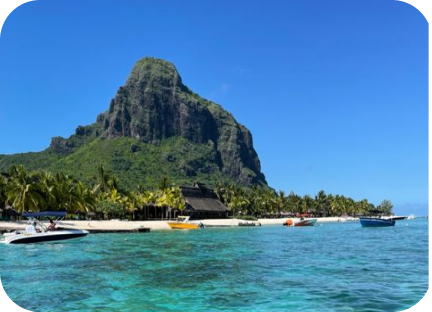
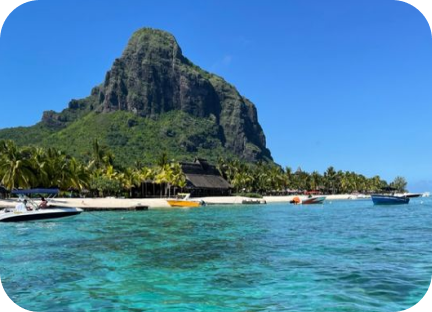
change design part 7 , added images

diff --git a/about_us.html b/about_us.html
@@ -6,7 +6,7 @@
     <link rel="stylesheet" href="css/navbar-foot.css" />
     <link rel="stylesheet" href="css/font_style.css" />
     <link rel="stylesheet" href="css/about_us.css" />
-    <title>Sunshine i-land Resort</title>
+    <title>Sunshine i-land Resort | About Us </title>
     <link rel="icon" href="assets/sunshine_blue_icon.png" />
   </head>
   <body>
@@ -186,13 +186,13 @@
               </div>
               <div class="follow-me">
                 <div class="follow-in">
-                  <a href="https://www.linkedin.com/in/nabellaayugiwanti/">
+                  <a href="https://www.linkedin.com/in/nabellaayugiwanti/"  target="_blank">
                     <img src="assets/icons/linkedin.png" alt="" />
                   </a>
                 </div>
                 <div class="follow-ig">
                   <a
-                    href="https://instagram.com/na_ayug?igshid=OGQ5ZDc2ODk2ZA=="
+                    href="https://instagram.com/na_ayug?igshid=OGQ5ZDc2ODk2ZA=="  target="_blank"
                   >
                     <img src="assets/icons/instagram.png" alt="" />
                   </a>
@@ -209,12 +209,12 @@
               </div>
               <div class="follow-me">
                 <div class="follow-in">
-                  <a href="#">
+                  <a href="https://id.linkedin.com/in/nathaliaclara12"  target="_blank">
                     <img src="assets/icons/linkedin.png" alt="" />
                   </a>
                 </div>
                 <div class="follow-ig">
-                  <a href="#">
+                  <a href="https://www.instagram.com/nathaliaclra_/"  target="_blank">
                     <img src="assets/icons/instagram.png" alt="" />
                   </a>
                 </div>
@@ -230,13 +230,13 @@
               </div>
               <div class="follow-me">
                 <div class="follow-in">
-                  <a href="https://www.linkedin.com/in/abimanyu-anggit">
+                  <a href="https://www.linkedin.com/in/abimanyu-anggit"  target="_blank">
                     <img src="assets/icons/linkedin.png" alt="" />
                   </a>
                 </div>
                 <div class="follow-ig">
                   <a
-                    href="https://instagram.com/abimanyu.anggit?utm_source=qr&igshid=MzNlNGNkZWQ4Mg%3D%3D"
+                    href="https://instagram.com/abimanyu.anggit?utm_source=qr&igshid=MzNlNGNkZWQ4Mg%3D%3D"  target="_blank"
                   >
                     <img src="assets/icons/instagram.png" alt="" />
                   </a>
@@ -254,14 +254,14 @@
               <div class="follow-me">
                 <div class="follow-in">
                   <a
-                    href="https://www.linkedin.com/in/igustingurahbagusarisanjaya"
+                    href="https://www.linkedin.com/in/igustingurahbagusarisanjaya"  target="_blank"
                   >
                     <img src="assets/icons/linkedin.png" alt="" />
                   </a>
                 </div>
                 <div class="follow-ig">
                   <a
-                    href="https://instagram.com/arisanjayabagus?igshid=OGQ5ZDc2ODk2ZA=="
+                    href="https://instagram.com/arisanjayabagus?igshid=OGQ5ZDc2ODk2ZA=="  target="_blank"
                   >
                     <img src="assets/icons/instagram.png" alt="" />
                   </a>
@@ -278,12 +278,12 @@
               </div>
               <div class="follow-me">
                 <div class="follow-in">
-                  <a href="#">
+                  <a href="http://linkedin.com/in/sephya-zahra-maharani-41283b265" target="_blank">
                     <img src="assets/icons/linkedin.png" alt="" />
                   </a>
                 </div>
                 <div class="follow-ig">
-                  <a href="#">
+                  <a href="https://instagram.com/sephyazhr?igshid=YTQwZjQ0NmI0OA%3D%3D&utm_source=qr" target="_blank">
                     <img src="assets/icons/instagram.png" alt="" />
                   </a>
                 </div>

diff --git a/facilities.html b/facilities.html
@@ -8,7 +8,7 @@
     <link rel="stylesheet" href="css/navbar-foot.css" />
     <link rel="stylesheet" href="css/font_style.css" />
     <link rel="stylesheet" href="css/facilities.css" />
-    <title>Sunshine i-land Resort</title>
+    <title>Sunshine i-land Resort | Fasilities </title>
     <link rel="icon" href="assets/sunshine_blue_icon.png">
   </head>
   <body>
@@ -58,23 +58,39 @@
       </section>
       <section id="facilities2">
         <div class="our-facilities">
+          <h2>Our Services</h2>
           <div class="container">
-          <h2>Our Facilities and Service</h2>
-          <img
-            class="fac-img"
-            src="assets/images/24hr_telephone.jpg"
-            alt=""/>
-          <h3>Access to 24hr Digital Telephone Services</h3>
-          <p>
-            With our future rich Digital telephone services, you will have the
-            flexibility you have always wanted with voice communication from
-            your home of business.
-          </p> 
-        </div>
+            <div class="facility">
+              <img class="fac-img" src="assets/images/24hr_telephone.jpg" alt=""/>
+              <h3>Digital Telephone Services</h3>
+              <p>
+                With our future rich Digital telephone services,<br>
+                you will have the flexibility you have always wanted with voice communication from
+                your home or business.
+              </p>
+            </div>
+            <div class="facility">
+              <img class="fac-img" src="assets/images/security-cctv.png" alt=""/>
+              <h3>Security Guaranteed</h3>
+              <p>
+                Our resort's CCTV security service provides top-notch surveillance <br>
+                and protection for the safety and security of our guests. 
+                
+              </p>
+            </div>
+            <div class="facility">
+              <img class="fac-img" src="assets/images/Staffs.jpg" alt=""/>
+              <h3>Quick Services</h3>
+              <p>
+                In our resort, fast service is one of our top priorities <br>
+                to provide maximum comfort and satisfaction to our guests.
+              </p>
+            </div>
+          </div>          
         <div class="our-facilities-icons">
           <div class="icon">
             <img src="assets/icons/long_distance.png" alt="" />
-            <p>Unlimited Long Distance</p>
+            <p>24 Hours Services</p>
           </div>
           <div class="icon">
             <img src="assets/icons/face_id.png" alt="" />
@@ -84,8 +100,16 @@
             <img src="assets/icons/phone-call.svg" alt="" />
             <p>Caller Waiting</p>
           </div>
+          <div class="icon">
+            <img src="assets/icons/security-guard.svg" alt="" />
+            <p>Security guard</p>
+          </div>
+          <div class="icon">
+            <img src="assets/icons/staff.svg" alt="">
+            <p>Good and friendly staffs </p>
+          </div>
         </div>
-        </div>
+
       </section>
       <section id="facilities3">
         <div class="container">

diff --git a/css/home.css b/css/home.css
@@ -195,8 +195,12 @@ body {
 /* Styling for headings within .headings */
 .headings h1 {
   text-align: center;
-  color: #555555;
+  color: #213e9e;
   font-size: 32px;
+}
+
+.subheadings p {
+  color: #555555;
 }
 /* Styling for cards container (.card) */
 .card {
@@ -232,6 +236,8 @@ body {
   box-shadow: 0px 0px 10px rgba(0, 0, 0, 0.5);
   transform: scale(1.05);
   cursor: pointer;
+  transition: transform 0.5s ease; 
+  
 }
 
 .discount p {
@@ -336,7 +342,6 @@ body {
   border-radius: 5px;
   background: #ffca0e;
   color: #ffffff;
-  font-family: inter;
   font-size: 14px;
   font-weight: bold;
   padding: 10px 20px;
@@ -392,7 +397,7 @@ body {
 /* Styling for headings in customer testimonials (#customers_say .headings p) */
 #customers-say .subheadings p {
   text-align: center;
-  color: #213e9e;
+  color: #5b5b5b;
 }
 
 /* Styling for card facilities section (.card-facilities) */
@@ -489,7 +494,7 @@ body {
   flex-direction: row;
 }
 
-/* CSS mengatur bagian destination */
+/* CSS for styling Destination part */
 .card_destinations {
   position: relative;
   display: flex;
@@ -500,14 +505,22 @@ body {
   overflow: hidden;
   margin-bottom: 30px;
 }
+.card_destinations:hover {
+  overflow: visible; 
+}
 
 .card_destinations img {
   width: 100%;
-  transition: transform 0.5s ease;
+  transition: transform 0.8s ease;
+  border-radius: 40px;
+  box-shadow: 5px 4px 8px rgba(0, 0, 0, 0.2);
 }
 
 .card_destinations:hover img {
   transform: scale(1.1);
+  border-radius: 40px;
+  box-shadow: 10px 4px 8px rgba(0, 0, 0, 0.2);
+  margin: 0;
 }
 
 .card_destinations p {
@@ -517,13 +530,13 @@ body {
   width: 100%;
   opacity: 0;
   transform: translateY(100%);
-  background: rgba(34, 34, 33, 0.8);
+  background: rgba(76, 50, 184, 0.8);
   color: white;
   text-align: center;
   padding: 20px;
   box-sizing: border-box;
   transition: all 0.5s ease;
-  border-radius: 10px;
+  border-radius: 40px;
 }
 
 .card_destinations:hover p {
@@ -539,7 +552,6 @@ body {
 }
 /* Media query for mobile view (maximum width 770px) */
 @media screen and (max-width: 770px) {
-  /* Styling for images in main-pic for mobile view (.main-pic img) */
   .about-content img {
     width: 80%;
   }
@@ -562,8 +574,6 @@ body {
     padding: 10px;
   }
 
-  /* Styling for card facilities section (.card-facilities) */
-
   /* Display customer testimonials in a block in mobile view (.card_grid) */
   .card-grid {
     display: block;
@@ -575,7 +585,6 @@ body {
     flex: 1 0 auto;
   }
   /* Adjust about content styles for mobile view (.about-content) */
-
   .view-about {
     float: right;
     margin: 20px;

diff --git a/css/facilities.css b/css/facilities.css
@@ -8,7 +8,7 @@
 #facilities3 {
   margin-bottom: 40px;
 }
-/* CSS untuk .text-container */
+/* CSS for .text-container */
 .text-container {
   position: absolute;
   top: 40%;
@@ -75,9 +75,25 @@
   text-align: center;
 }
 
+.our-facilities h2 ,
+.other-facilities h2{
+  color: #2474BD;
+  margin-bottom: 40px;
+}
+
+.our-facilities .container {
+  display: flex;
+  justify-content: space-between;
+}
+
+.our-facilities .facility {
+  width: 100%;
+}
+
+
 /* Image in Our Facilities - 100% width, border-radius 10px */
 .fac-img {
-  width: 40%;
+  width: 90%;
   border-radius: 10px;
 }
 
@@ -97,7 +113,7 @@
 
 /* Our Facilities Icons Container - Blue background */
 .our-facilities-icons {
-  background-color: #009c95;
+  background-color: #2474BD;
   width: 100%;
   position: relative;
   bottom: 0;
@@ -238,6 +254,14 @@
     border-radius: 10px;
   }
 
+  .our-facilities .container {
+    flex-direction: column;
+  }
+  
+  .our-facilities .facility {
+    width: 100%;
+  }
+
   /* Title and Text Style for Facilities Card on Small Screens */
   .card-facility h3,
   .other-facility h3 {
@@ -254,7 +278,7 @@
     text-align: left;
   }
   .our-facilities-icons {
-    background-color: #009c95;
+    background-color: #2474BD;
     width: 100%;
     position: relative;
     bottom: 0;

diff --git a/index.html b/index.html
@@ -153,7 +153,9 @@
         <div class="container">
           <div class="headings">
             <h1>Luxurious Facilities at Our Hotel</h1>
-            <p>Discover a World of Elegance and Modern Amenities for a Truly Memorable Stay.</p>
+            <div class="subheadings">
+              <p>Discover a World of Elegance and Modern Amenities for a Truly Memorable Stay.</p>
+            </div>
           </div> 
           <div class="service-facilities">
             <div class="service">
@@ -214,6 +216,10 @@
         <div class="container">
           <div class ="headings">
             <h1>Destinations</h1>
+            <div class="subheadings">
+              <p> Our resort boasts a stunning and idyllic destination that promises an unforgettable experience for our guests. Nestled in a pristine natural setting, <br>
+                our resort offers a picturesque retreat surrounded by breathtaking landscapes.</p>
+            </div>
           </div>
           <div class="card-des">
               <div class="card_destinations">

diff --git a/rooms.html b/rooms.html
@@ -6,7 +6,7 @@
     <link rel="stylesheet" href="css/navbar-foot.css" />
     <link rel="stylesheet" href="css/font_style.css" />
     <link rel="stylesheet" href="css/rooms.css" />
-    <title>Sunshine i-land Resort</title>
+    <title>Sunshine i-land Resort | Our Rooms </title>
     <link rel="icon" href="assets/sunshine_blue_icon.png">
   </head>
   <body>

diff --git a/detail_room.html b/detail_room.html
@@ -8,7 +8,7 @@
     <link rel="stylesheet" href="css/navbar-foot.css" />
     <link rel="stylesheet" href="css/detail_room.css" />
     <!-- Page title -->
-    <title>Sunshine i-land Resort</title>
+    <title>Sunshine i-land Resort | Room Detail </title>
     <link rel="icon" href="assets/sunshine_blue_icon.png " />
   </head>
   <body>
